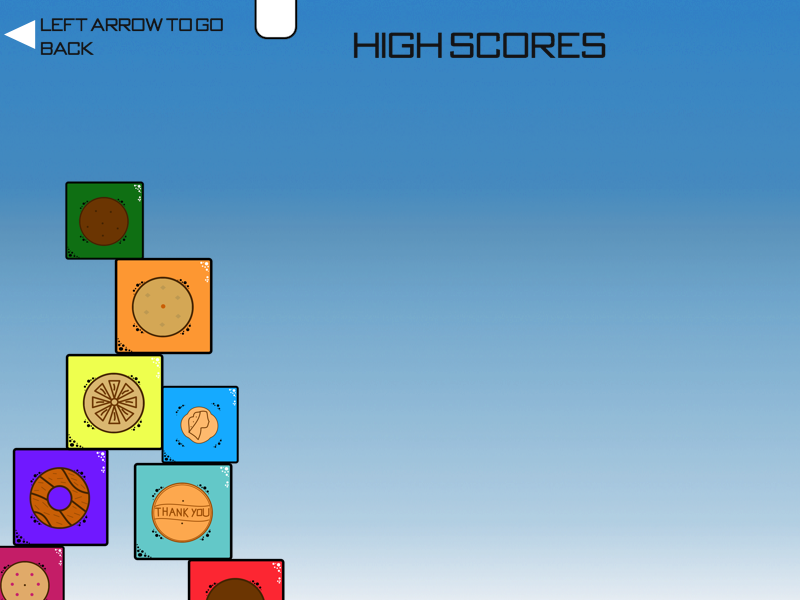
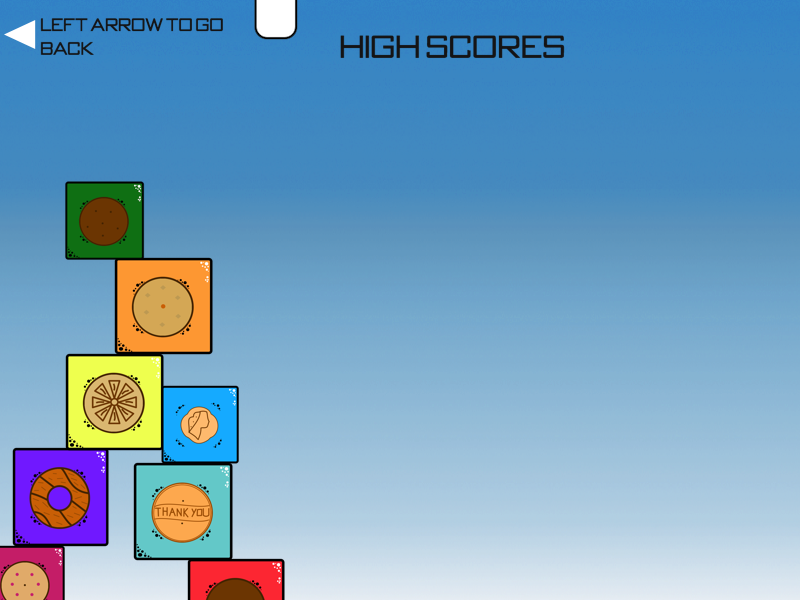
Modified graphics to be 600x600. Made blocks 3f. Made lava faster

Changed region(s): [[0.4062, 0.03, 0.7812, 0.12]]

diff --git a/initialGame/core/src/com/maxaer/screens/RegisterScreen.java b/initialGame/core/src/com/maxaer/screens/RegisterScreen.java
@@ -31,7 +31,6 @@ import com.badlogic.gdx.scenes.scene2d.utils.ChangeListener;
 import com.maxaer.database.SQLDriver;
 import com.maxaer.database.User;
 import com.maxaer.game.GameWindow;
-import com.maxaer.threaded.SQLStoreUser;
 
 public class RegisterScreen implements Screen
 {
@@ -53,13 +52,13 @@ public class RegisterScreen implements Screen
       
       batch = new SpriteBatch();
       
-      Texture background = new Texture(Gdx.files.internal("Backgrounds/AltRegisterBackground.png"));
+      Texture background = new Texture(Gdx.files.internal("Backgrounds/600x600RegisterBackground.png"));
       backgroundSprite = new Sprite(background);
       backgroundSprite.setPosition(0, 0);
       
       FreeTypeFontGenerator generator = new FreeTypeFontGenerator(Gdx.files.internal("data/BankGothic-Regular.ttf"));
       FreeTypeFontParameter parameter = new FreeTypeFontParameter();
-      parameter.size = 26;
+      parameter.size = 22;
       parameter.color = Color.BLACK;
       generator.generateData(parameter);
       font = generator.generateFont(parameter);
@@ -76,20 +75,20 @@ public class RegisterScreen implements Screen
       createBasicSkin();
       
       userNameField = new TextField("", skin); // Use the initialized skin
-      userNameField.setPosition(420, Gdx.graphics.getHeight()/3 + 50);
-      userNameField.setWidth(200);
+      userNameField.setPosition(330, Gdx.graphics.getHeight()/3 + 50);
+      userNameField.setWidth(170);
       stage.addActor(userNameField);
       
       passwordField = new TextField("", skin);
       passwordField.setPosition(userNameField.getX(), userNameField.getY() - userNameField.getHeight() - BTN_SPACING);
-      passwordField.setWidth(200);
+      passwordField.setWidth(170);
       passwordField.setPasswordMode(true);
       passwordField.setPasswordCharacter('*');
       stage.addActor(passwordField);
       
       confirmField = new TextField("", skin);
       confirmField.setPosition(passwordField.getX(), passwordField.getY() - passwordField.getHeight() - BTN_SPACING);
-      confirmField.setWidth(200);
+      confirmField.setWidth(170);
       confirmField.setPasswordMode(true);
       confirmField.setPasswordCharacter('*');
       stage.addActor(confirmField);
@@ -97,7 +96,7 @@ public class RegisterScreen implements Screen
       
       registerBtn = new TextButton("Register", skin);
       registerBtn.setPosition(userNameField.getX(), confirmField.getY() - confirmField.getHeight() - BTN_SPACING);
-      registerBtn.setWidth(200);
+      registerBtn.setWidth(170);
       stage.addActor(registerBtn);
       
       addActions(); 
@@ -172,8 +171,6 @@ public class RegisterScreen implements Screen
             if(verifyPassword(passwordField.getText(), confirmField.getText()) && userNameFree(userNameField.getText())){
                //Store the user into SQL 
                String hash = hashPassword(passwordField.getText());
-//               SQLStoreUser storeUser = new SQLStoreUser(userNameField.getText(), hash);
-//               storeUser.start();
                SQLDriver driver = new SQLDriver();
                driver.connect();
                driver.addUser(userNameField.getText(), hash);

diff --git a/initialGame/core/src/com/maxaer/database/SQLDriver.java b/initialGame/core/src/com/maxaer/database/SQLDriver.java
@@ -10,6 +10,11 @@ import java.util.ArrayList;
 
 import com.mysql.jdbc.Driver;
 
+/*
+ * Class: SQLDriver
+ * Author: Peter Kaminski
+ * Purpose: To create a connection for our game to store information in an SQL database 
+ */
 public class SQLDriver
 {
    private Connection conn;
@@ -30,6 +35,7 @@ public class SQLDriver
       }
    }
 
+   //Connect to the SQL server instance 
    public void connect(){
       try{
          conn = DriverManager.getConnection("jdbc:mysql://104.131.153.145:3306/maxaer?user=max&password=DoD2016&useSSL=false");
@@ -38,6 +44,7 @@ public class SQLDriver
       }
    }
 
+   //Close the connection
    public void stop(){
       try
       {
@@ -75,6 +82,7 @@ public class SQLDriver
       } 
    }
    
+   //Check to see if the user name is in SQL
    public boolean userNameExists(String uname){
       try{
          PreparedStatement statement = conn.prepareStatement(USER_EXISTS);
@@ -96,6 +104,7 @@ public class SQLDriver
       } 
    }
 
+   //Add a new score to the HighScores table
    public void addTopScore(int userID, int score){
       try{
          PreparedStatement statement = conn.prepareStatement(ADD_HIGH_SCORE);
@@ -110,6 +119,7 @@ public class SQLDriver
 
    }
    
+   //Register a new user with SQL 
    public void addUser(String userID, String passHash){
       try{
          PreparedStatement statement = conn.prepareStatement(ADD_USER);
@@ -124,6 +134,7 @@ public class SQLDriver
 
    }
    
+   //Return the top 10 scores from the DB
    public ArrayList<UserScore> getTopScores(){
       try{
          Statement statement = conn.createStatement();
@@ -144,6 +155,7 @@ public class SQLDriver
       }
    }
    
+   //Return the user's name by their ID
    public String getUserByID(int userID){
       String user = "Error";
       try{
@@ -162,7 +174,8 @@ public class SQLDriver
          return user;
       }
    }
-
+   
+   //Return the user id by name
    public int getUserByName(String userName){
       int user = 1;
       try{
@@ -170,7 +183,6 @@ public class SQLDriver
          statement.setString(1, userName);
          ResultSet results = statement.executeQuery();
          if(results.next()){
-            System.out.println(results.getInt("userID") + " userID");
             return results.getInt("userID");
          }
          

diff --git a/initialGame/core/src/com/maxaer/screens/MenuScreen.java b/initialGame/core/src/com/maxaer/screens/MenuScreen.java
@@ -39,7 +39,7 @@ public class MenuScreen implements Screen
       
       batch = new SpriteBatch();
       
-      Texture background = new Texture(Gdx.files.internal("Backgrounds/AltMaxaerBackground.png"));
+      Texture background = new Texture(Gdx.files.internal("Backgrounds/600x600Background.png"));
       backgroundSprite = new Sprite(background);
       backgroundSprite.setPosition(0, 0);
       
@@ -57,24 +57,24 @@ public class MenuScreen implements Screen
       createBasicSkin();
       
       playBtn = new TextButton("Play", skin); // Use the initialized skin
-      playBtn.setPosition(420, Gdx.graphics.getHeight()/3 + 50);
-      playBtn.setWidth(200);
+      playBtn.setPosition(325, Gdx.graphics.getHeight()/3 + 50);
+      playBtn.setWidth(190);
       stage.addActor(playBtn);
       
       registerBtn = new TextButton("Sign up", skin);
       registerBtn.setPosition(playBtn.getX(), playBtn.getY() - playBtn.getHeight() - BTN_SPACING);
-      registerBtn.setWidth(200);
+      registerBtn.setWidth(190);
       stage.addActor(registerBtn);
       
       loginBtn = new TextButton("Login", skin);
       loginBtn.setPosition(registerBtn.getX(), registerBtn.getY() - registerBtn.getHeight() - BTN_SPACING);
-      loginBtn.setWidth(200);
+      loginBtn.setWidth(190);
       stage.addActor(loginBtn);
       
       
       scoresBtn = new TextButton("High Scores", skin);
       scoresBtn.setPosition(playBtn.getX(), loginBtn.getY() - loginBtn.getHeight() - BTN_SPACING);
-      scoresBtn.setWidth(200);
+      scoresBtn.setWidth(190);
       stage.addActor(scoresBtn);
       
       addActions(); 

diff --git a/initialGame/core/src/com/maxaer/screens/LoginScreen.java b/initialGame/core/src/com/maxaer/screens/LoginScreen.java
@@ -51,7 +51,7 @@ public class LoginScreen implements Screen
       
       batch = new SpriteBatch();
       
-      Texture background = new Texture(Gdx.files.internal("Backgrounds/AltLoginBackground.png"));
+      Texture background = new Texture(Gdx.files.internal("Backgrounds/600x600Login.png"));
       backgroundSprite = new Sprite(background);
       backgroundSprite.setPosition(0, 0);
       
@@ -74,21 +74,21 @@ public class LoginScreen implements Screen
       createBasicSkin();
       
       userNameField = new TextField("", skin); // Use the initialized skin
-      userNameField.setPosition(420, Gdx.graphics.getHeight()/3 + 60);
-      userNameField.setWidth(200);
+      userNameField.setPosition(330, Gdx.graphics.getHeight()/3 + 60);
+      userNameField.setWidth(170);
       stage.addActor(userNameField);
       
       passwordField = new TextField("", skin);
       passwordField.setPasswordMode(true);
       passwordField.setPasswordCharacter('.');
       passwordField.setPosition(userNameField.getX(), userNameField.getY() - userNameField.getHeight() - BTN_SPACING);
-      passwordField.setWidth(200);
+      passwordField.setWidth(170);
       stage.addActor(passwordField);
       
       
       loginBtn = new TextButton("Login", skin);
       loginBtn.setPosition(userNameField.getX(), passwordField.getY() - passwordField.getHeight() - BTN_SPACING);
-      loginBtn.setWidth(200);
+      loginBtn.setWidth(170);
       stage.addActor(loginBtn);
       
       addActions(); 

diff --git a/initialGame/core/src/com/maxaer/gameworld/GameWorld.java b/initialGame/core/src/com/maxaer/gameworld/GameWorld.java
@@ -62,7 +62,7 @@ public class GameWorld
       player = new Player(world);
       platform = new Platform(world);
       //Create the lava as a rectangle with the width of the screen and with 
-      lava = new Rectangle(0, Gdx.graphics.getHeight() + 240,Gdx.graphics.getWidth(), Gdx.graphics.getHeight() + 1000);
+      lava = new Rectangle(0, Gdx.graphics.getHeight() + 300,Gdx.graphics.getWidth(), Gdx.graphics.getHeight() + 1000);
       blocks = new Vector<Block>();
       gameOver = false;
       justDied = true;
@@ -88,7 +88,7 @@ public class GameWorld
 	  }
 	  //Update the position of the lava by a few pixels
 	  if(lava.getY() > player.getSprite().getY() - (Gdx.graphics.getHeight()/2))
-	     lava.setPosition(lava.getX(), lava.getY() - (30 * delta));
+	     lava.setPosition(lava.getX(), lava.getY() - (45 * delta));
 	  
 	  
    }

diff --git a/initialGame/desktop/src/com/maxaer/game/desktop/DesktopLauncher.java b/initialGame/desktop/src/com/maxaer/game/desktop/DesktopLauncher.java
@@ -7,7 +7,7 @@ import com.maxaer.game.GameWindow;
 public class DesktopLauncher {
 	public static void main (String[] arg) {
 		LwjglApplicationConfiguration config = new LwjglApplicationConfiguration();
-		config.width = 800;
+		config.width = 600;
 		config.height = 600;
 		config.title = "MaxÆR";
 		new LwjglApplication(new GameWindow(), config);

diff --git a/initialGame/core/src/com/maxaer/gameworld/GameRenderer.java b/initialGame/core/src/com/maxaer/gameworld/GameRenderer.java
@@ -73,7 +73,7 @@ public class GameRenderer
       
       layout = new GlyphLayout(); 
       
-      parameter.size = 30;
+      parameter.size = 24;
       deathFont = generator.generateFont(parameter);
       generator.dispose(); // don't forget to dispose to avoid memory leaks!
       

diff --git a/initialGame/core/src/com/maxaer/gameobjects/Block.java b/initialGame/core/src/com/maxaer/gameobjects/Block.java
@@ -47,7 +47,7 @@ public class Block extends Shape {
 		//Create the body for the player
 		body = world.createBody(bodyDef);
 		body.setGravityScale(0);		
-		body.setLinearVelocity(0, 2f);
+		body.setLinearVelocity(0, 3f);
 		
       
 		//Create the shape for our player
